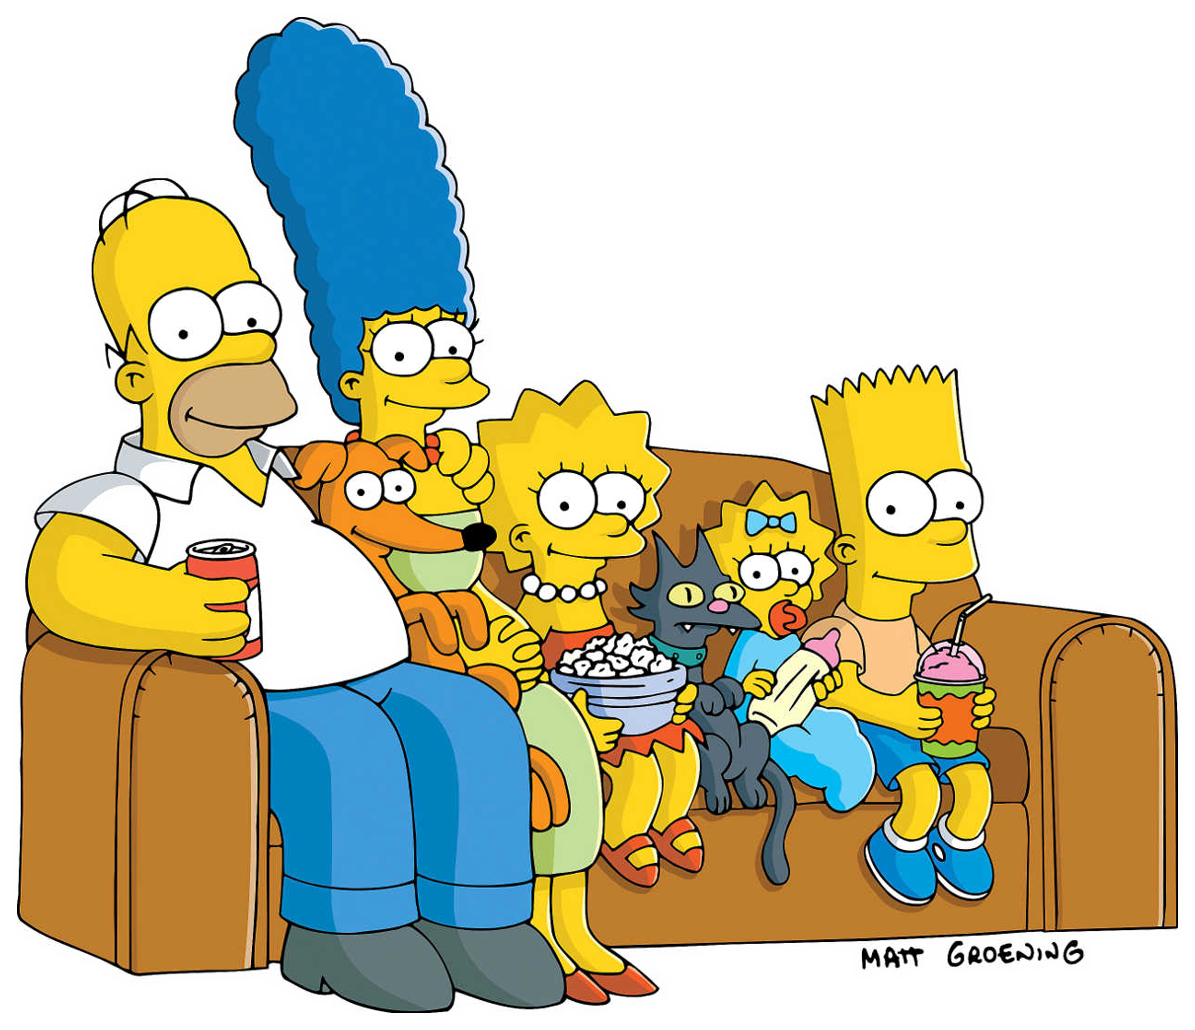
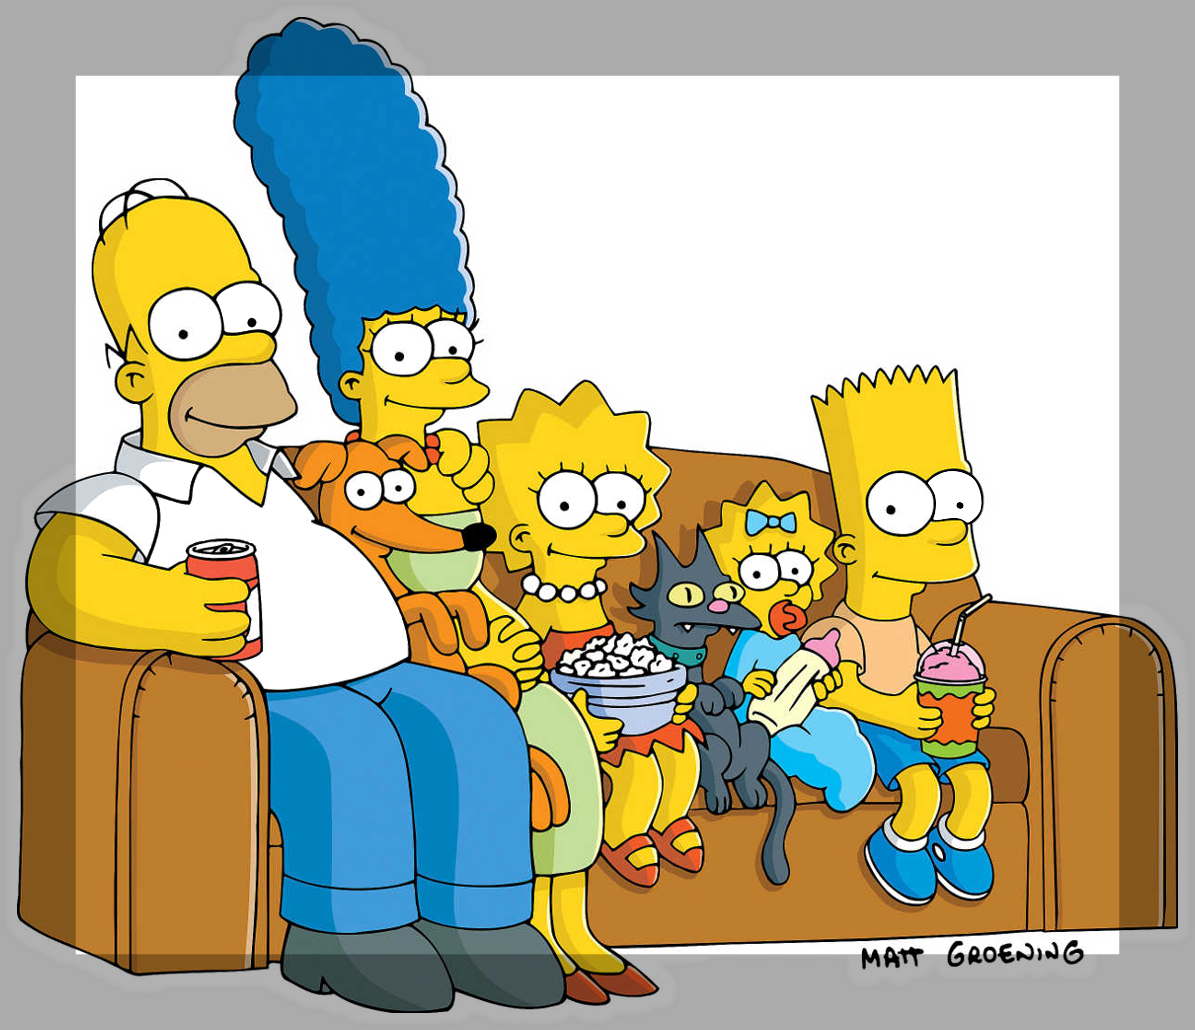
sofa

Changed region(s): [[0.0, 0.0, 1.0, 1.0]]

diff --git a/index.html b/index.html
@@ -21,7 +21,7 @@
 	</div>
 	
 	<div id="div-backgroundimg">
-		<img src="imgs/Imagen1.png" class="background-image">
+		<img src="imgs/sofa.png" class="background-image">
 		<br>
 		<img src="imgs/simpsons-logo.png" class="logo-simpsons">
 	</div>
